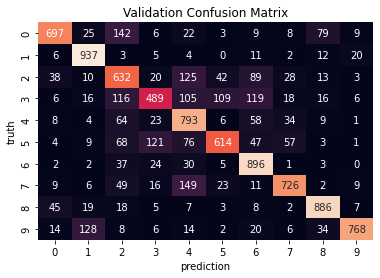
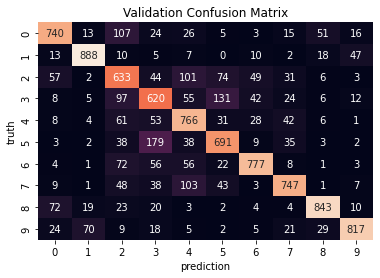
Update results

diff --git a/README.md b/README.md
@@ -7,6 +7,6 @@
 
 The paper on residual learning, which introduced a CNN architecture known as ResNet (https://arxiv.org/pdf/1512.03385.pdf), is a popular classic paper that has led to a large-scale adoption of residual "skip" connections in deep neural networks.
 
-`model.py` provides a PyTorch implementation of this network, with a training loop on the CIFAR-10 dataset provided in `train.py`. This is a work in progress - to get better results I recommend adding random transformations to input data, adding drop out to the network, as well as experimentation with weight initialisation and other hyperparameters of the network. Below, in only ~30 epochs I achieved the below confusion matrix. This network is provided on my Google Drive (https://drive.google.com/file/d/1O61Z4ssJLBTIybv-_KRfV4MkL5tLU2LR/view?usp=sharing) due to GitHub size constraints and can be loaded into an instance of the ResNet50 class provided. The validation performance for this network was `74.38%` when the training was stopped. Class 2 (bird - more classes seen here, https://www.cs.toronto.edu/~kriz/cifar.html) was not predicted by the network, so I helped the network learn this class by saving the model, and running it through a dozen images of birds once. The loss for this class dropped slightly and allowed the class to start to be predicted without overfitting the class. I consequently continued the training as normal, with Class 2 catching up to the performance of other classes over time. These results show example results, with the training interrupted midway due to the amount of time required for the training this netwwork on my computer. Notable on this CM is that classes like 3, 4, 5, 6 (cat, deer, dog, frog), 1 and 9 (automobile and truck), 4 and 7 (deer and horse), and 0, 2, 8 (airplane, bird, ship) tend to be mistaken for each other, which makes sense for obvious reasons and is a sanity check when training the network. 
+`model.py` provides a PyTorch implementation of this network, with a training loop on the CIFAR-10 dataset provided in `train.py`. This is a work in progress - to get better results I recommend adding random transformations to input data, adding drop out to the network, as well as experimentation with weight initialisation and other hyperparameters of the network. Below, in only ~30 epochs I achieved the below confusion matrix. This network is provided on my Google Drive (https://drive.google.com/file/d/1O61Z4ssJLBTIybv-_KRfV4MkL5tLU2LR/view?usp=sharing) due to GitHub size constraints and can be loaded into an instance of the ResNet50 class provided. The validation performance for this network was `75.22%` when the training was stopped. Class 2 (bird - more classes seen here, https://www.cs.toronto.edu/~kriz/cifar.html) was not predicted by the network, so I helped the network learn this class by saving the model, and running it through a dozen images of birds once. The loss for this class dropped slightly and allowed the class to start to be predicted without overfitting the class. I consequently continued the training as normal, with Class 2 catching up to the performance of other classes over time. These results show example results, with the training interrupted midway due to the amount of time required for the training this netwwork on my computer. Notable on this CM is that classes like 3, 4, 5, 6 (cat, deer, dog, frog), 1 and 9 (automobile and truck), 4 and 7 (deer and horse), and 0, 2, 8 (airplane, bird, ship) tend to be mistaken for each other, which makes sense for obvious reasons and is a sanity check when training the network. 
 
 ![](Images/CM.png)
